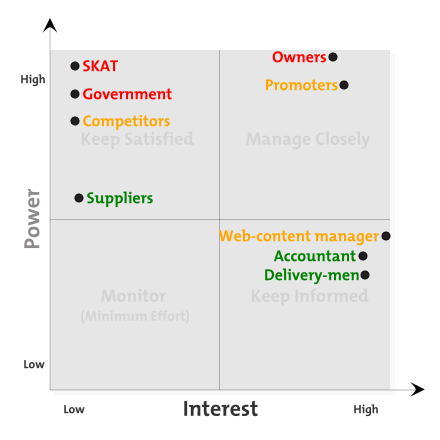
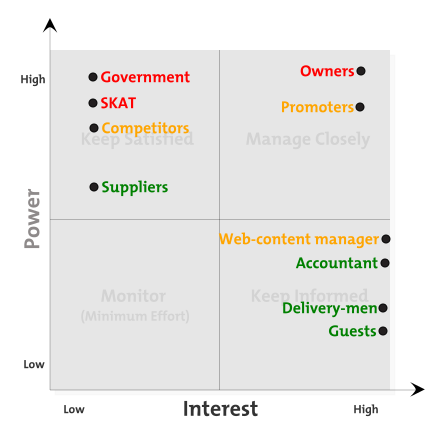
Backup 25.09.17 11:58

diff --git a/main.tex b/main.tex
@@ -156,19 +156,19 @@
 
 \section{Introduction}
 
+A common problem among mostly younger people in today's society is not having easy access to shops during night times. Most shops in Copenhagen are closed at this time and bars are either too far away or too expensive, or both. Furthermore, a lot of parties happen at private locations like apartments, where you can easily run out of supplies or you are simply too lazy to go to a shop and buy said supplies, according to our individual experiences. To pinpoint this problem, we created the following problem formulation.
+
 \begin{center}
-\vspace{1em}
-\SlimHRule\\[0.1cm]
-\Large{How can we make party supplies more accessible during night times, using the benefits of an easy-to-use ordering website and fast delivery service, and therefore provide an awesome party experience in the greater Copenhagen area?}
-\SlimHRule\\[0.1cm]
-\vspace{1em}
+    \vspace{1em}
+    \SlimHRule\\[0.1cm]
+    \Large{How can we make party supplies more accessible during night times, using the benefits of an easy-to-use ordering website and delivery service, and therefore provide an awesome party experience in the greater Copenhagen area?}
+    \SlimHRule\\[0.1cm]
+    \vspace{1em}
 \end{center}
 
-The above problem formulation focuses on a common problem among mostly younger people in today's society. During night times, most shops in Copenhagen are closed and bars are either too far away or too expensive, or both. Furthermore, most parties happen at private locations like apartments, where you can easily run out of supplies or you are simply too lazy to go to a shop and buy said supplies. This is where our service steps in. We provide a fast, reliable and secure service to deliver a broad variety of party supplies directly to the customer's doorstep. We make sure, the party never stops! 
+We provide a service to deliver a broad variety of party supplies directly to the customer's doorstep. Our product includes an easy ordering procedure through our website and delivery by one of our employees. The supplies offered on our website are from a wide variety. We offer alcoholic beverages ranging from domestic and foreign beer to wine, vodka, whiskey and more, but also non-alcoholic beverages like coke and energy drinks. Furthermore, we are offering a great amount of party games like beer pong, card games, beer bongs and more. Alongside all of this, we also offer snacks and cigarettes. Special bundles for events like the \emph{Oktoberfest} are also included in our service.
 \\ \\
-Our product includes an easy ordering procedure through our website and a fast delivery by one of our employees. The supplies offered on our website are from a wide variety. We offer alcoholic beverages ranging from domestic and foreign beer to wine, vodka, whiskey and more, but also non-alcoholic beverages like coke (not the drug) and energy drinks. Furthermore, we are offering a great amount of party games like beer pong, card games, beer bongs and more. Alongside all of this, we also offer snacks and cigarettes. Special bundles for events like the \emph{Oktoberfest} are also included in our service.
-\\ \\
-Our target audience is mainly younger generations since they have the highest quantity of parties and also drink a lot more alcohol than older generations. We are hoping to especially appeal this audience with our variety of party games and special bundles. Nonetheless, anyone above the legal age is of course more than welcome to use our service.
+Our target audience is mainly younger generations, since they have the highest quantity of parties and also drink a lot more alcohol than older generations. We are hoping to especially appeal this audience with our variety of party games and special bundles. Nonetheless, anyone above the legal age is of course more than welcome to use our service.
 \\ \\
 The e-shop, which is described above, is only supposed to be an exemplary project, but not an actual business. We won't deliver products, nor take payments.
 
@@ -280,15 +280,37 @@ It is well known, how important the danish drinking culture is. According to the
 
 \textbf{Technological factors}
 
-As for the technological factors, it is relatively easy to set up an e-shop nowadays. With the technology of content-management-systems, you can set up a shop within minutes. The two hardest factors are: implementing an effective age verification system; and advertising the website to attract enough users.
+As for the technological factors, it is relatively easy to set up an e-shop nowadays. With the technology of content-management-systems, you can set up a shop within minutes. The two hardest factors are: implementing an effective age verification system; and advertising the website to attract enough users. \\
+
+\textbf{Conclusion}
+
+In a reality, where we actually create this company, we can conclude the following things from this analysis: The political and economic factors are certainly the most important. Obliging every relevant law, especially in Denmark, can be quite hard when founding a start-up, which deals with products, that are illegal to minors. It is also majorly important to have financial control. We would have to invest a lot into this company in order to make it profitable at some point. Purchasing all needed products and hiring the needed personnel will be expensive. The socio-cultural and technological factors will play a rather small role, since the danish society is perfectly suited for such a company, and setting up an e-shop with content management systems is very easy and inexpensive nowadays.
 
 \newpage
 
 %------------------------------------------------
 
-\subsection{Stakeholder analysis} \label{StakeholderAnalysis}
+\subsection{Stakeholder analysis} \label{Stakeholder_Analysis}
+"Stakeholder analysis in conflict resolution, project management, and business administration, is the process of the assessing a decision's impact on relevant parties. This information is used to assess how the interests of those stakeholders should be addressed in a project plan, policy, program, or other action." \cite{StakeholderAnalysis}
+\\
+We started to make a stakeholder analysis by brain-storming with our whole group in order to identify stakeholder for our e-shop. After a bunch of ideas, we had decided that our stakeholders list is the following:
+\begin{itemize}
+\item SKAT
+\item Government
+\item Competitors
+\item Suppliers
+\item Owners
+\item Promoters
+\item Web-content manager
+\item Delivery-men
+\item Accountant
+\item Users
+\end{itemize}
 
-\includegraphics[width=1\textwidth]{stakeholder}\\
+\begin{center}
+\includegraphics[width=0.6\textwidth]{stakeholder}
+\end{center}
+
 As seen in the diagram, we have prioritized our stakeholders in our project by influence and interest. In order to get most successful way to maintain a perfect work atmosphere, we need to provide every specific stakeholder with specific information. For each stakeholder we made the following information: 
 
 \textbf{SKAT:}
@@ -318,6 +340,13 @@ Accountant is the person that keeps the track of all the income, money used for 
 \textbf{Delivery-men:}
 Delivery-men will be the people deliver our stuff to the customers, therefore if he fails to deliver different orders, we either will have a lot of complaints to our e-shop, or we will have no customers at all. To avoid this, we need to provide specific training's, resources(electric-mopeds, warm-suits for winter etc.), and a decent salary wage.
 
+\textbf{Users:}
+Users, as Suppliers, are the key value in our project, because there will be no future if we don't have any users on our website that will buy our products. The solution to them is to provide the information needed about our services clearly, comfortable to use the website, and different kind of promotions in order them to return to our website. Different kind of promotions and new ways to get more users to our website are held by our promoters team.
+\\
+\\
+\textbf{Conclusion:}
+After the stakeholder analysis, we had an overview of who can influence our e-shop directly or indirectly. That informed us more detailed what can go wrong or what we should do in order to provide a good service to our users, without any fails through the development part.
+
 \newpage
 
 %------------------------------------------------
@@ -345,6 +374,8 @@ Geographically we chose to sell for the moment only in the city of Copenhagen as
 Demographically our goal is to have price ranges for every socio-economic group and any age or gender since locally everyone drinks more or less.
 
 We are seeking to have our stocks available at all times so we can be seen as a reliable source of goods. Occasional price drops, offers, special packs, gift cards for loyal customers will make our shop more attractive to potential buyers.
+
+The teachings we assimilated during the market segmentation process has helped us understand the valour of seeing the customers as more than just a whole but as many pieces that we have to fit together to increase the sales of our products.
 
 \begin{figure}
     \centering
@@ -377,7 +408,7 @@ Concluding everything already said before, we should definitely focus on coming 
 
 \subsection{SWOT analysis} \label{SWOT}
 
-\begin{table}[htbp]
+\begin{table}[H]
   \centering
     \begin{tabular}{|p{0.5\textwidth}|p{0.5\textwidth}|}
     \hline
@@ -389,7 +420,7 @@ Concluding everything already said before, we should definitely focus on coming 
   \label{tab:swot_one}
 \end{table}
 
-\begin{table}[htbp]
+\begin{table}[H]
   \centering
     \begin{tabular}{|p{0.5\textwidth}|p{0.5\textwidth}|}
     \hline
@@ -401,7 +432,9 @@ Concluding everything already said before, we should definitely focus on coming 
   \label{tab:swot_two}
 \end{table}
 
-After doing the SWOT analysis we learned how immature the market of alcohol/Snack delivery is. There is a a big demand on the sector  
+After doing the SWOT analysis we learned how immature the market of alcohol/Snack delivery was. There is a high demand in the sector %\ref{}
+with very little competitors.
+We can therefore conclude that our strengths and opportunities are stronger than our weaknesses and threats. 
 
 \newpage
 
@@ -420,7 +453,7 @@ This section will help us deliver a better product by analyzing the market optio
 
 \textbf{Product}
 
-The products we have chosen are primarily alcohol and drinking games. We have chosen this product because of the drinking culture in Copenhagen. People in Copenhagen, both the youth and the elderly people often drink. The different categories of alcohol make our website more competitive against other websites selling alcohol because we have so many different variants of alcohol. We have all the big brands of alcohol, for example, we have \emph{Carlsberg}, \emph{Absolut Vodka}, \emph{Jack Daniels} and so on. Because of our big brand's people get more comfortable with buying alcohol from us, since we have recognized companies among our inventory. 
+The products we have chosen are primarily alcohol and drinking games. We have chosen this product because of the drinking culture in Copenhagen. People in Copenhagen, both the youth and the elderly people often drink. The different categories of alcohol make our website more competitive against other websites selling alcohol because we have so many different variants of alcohol. We have all the big brands of alcohol, for example, we have \emph{Carlsberg}, \emph{Absolut Vodka}, \emph{Jack Daniels} and so on. Because of our big brand's people get more comfortable with buying alcohol from us, since we have recognized companies among our inventory.
 \\ \\
 We have different kinds of packaging, which gets you a discount or maybe new entertainment to your current or future party. The packaging services include a game and some alcohol which create a drinking game. An example of a drinking game could be “Beer pong” which is very popular among the younger people playing drinking games. \\
 
@@ -470,7 +503,7 @@ We can also partnership with Local alcohol brands such as Carlsberg for example 
 Partnering with events companies or Festivals in Copenhagen is also a good marketing strategy this will also promotes our services and reach our target market.
 
 When it comes to our first sponsors, university organizations such as IDA would be our best solution when we start our advertising campaign.
-The target market is ideal since students like to play hard and party and since they are limited in time and money our service will provide them with all what they need. And to end this section we won’t make flyers because our target market does not pay attention to these kinds of advertisement.
+The target market is ideal since students like to play hard and party and since they are limited in time and money our service will provide them with all what they need. To conclude this section we won’t make flyers because our target market does not pay attention to these kinds of advertisement.
 
 \newpage
 
@@ -490,7 +523,7 @@ As we decided which Content-Management System we will use, we started to find a 
 
 \textbf{FTP:}
 \\
-When we have got the credentials from our host, including SQL, FTP, Admin-panel credentials, we had started to make a FTP connection in order to install the wordpress. We had studied some information about the FTP connection, and with the credentials we have got the possibility to connect to the WebFTP, an FTP-client provided by the host company. This FTP had some issues, for example you can’t connect more than one person at a time or transfer multiple files simultaneously from your computer. Also, the files transferred sometimes got corrupted, so our decision was to install another local FTP-Client that helps to connect to the host multiple users at once. We chose FileZilla, one of the most used and safe FTP-client. After the installation, we have made made our first successful connection to our host. Another issue we have encountered is that while trying to connect to the host, we’ve received an “Access Denied” text. After reading our host documentation, we’ve understood that we need to unlock the user from the admin panel in order to make a connection, and it’s made for safety reasons. Also, the access for the user it’s limited only for 12 hours, after this time, you need to unlock it again. \\
+When we have got the credentials from our host, including SQL, FTP, Admin-panel credentials, we had started to make a FTP connection in order to install the wordpress. We had studied some information about the FTP connection, and with the credentials we have got the possibility to connect to the WebFTP, an FTP-client provided by the host company. This FTP had some issues, for example you can’t connect more than one person at a time or transfer multiple files simultaneously from your computer. Also, the files transferred sometimes got corrupted, so our decision was to install another local FTP-Client that helps to connect to the host multiple users at once. We chose FileZilla, one of the most used and safe FTP-client. After the installation, we have made made our first successful connection to our host. Another issue we have encountered is that while trying to connect to the host, we have received an “Access Denied” text. After reading our host documentation, we have understood that we need to unlock the user from the admin panel in order to make a connection, and it’s made for safety reasons. Also, the access for the user it’s limited only for 12 hours, after this time, you need to unlock it again. \\
 
 \textbf{MySQL Databases:}
 \\
